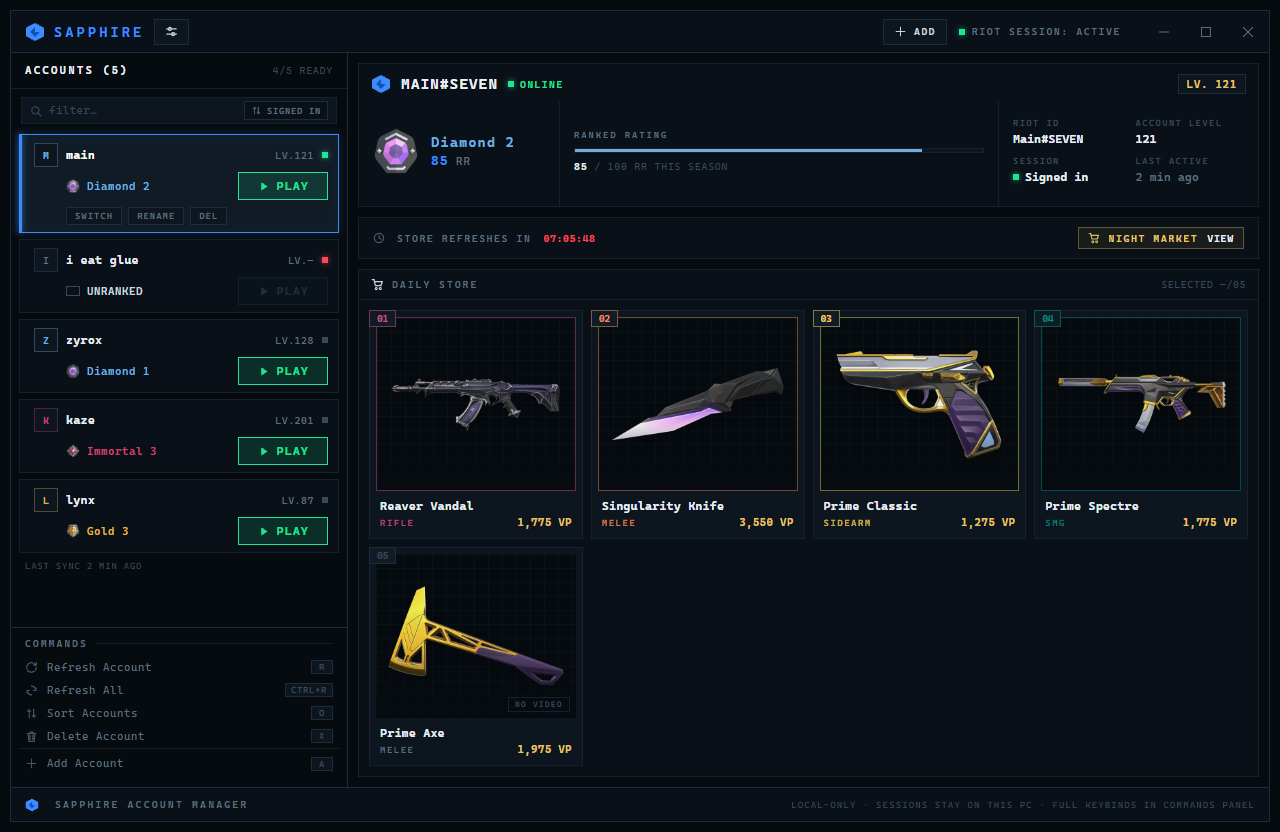
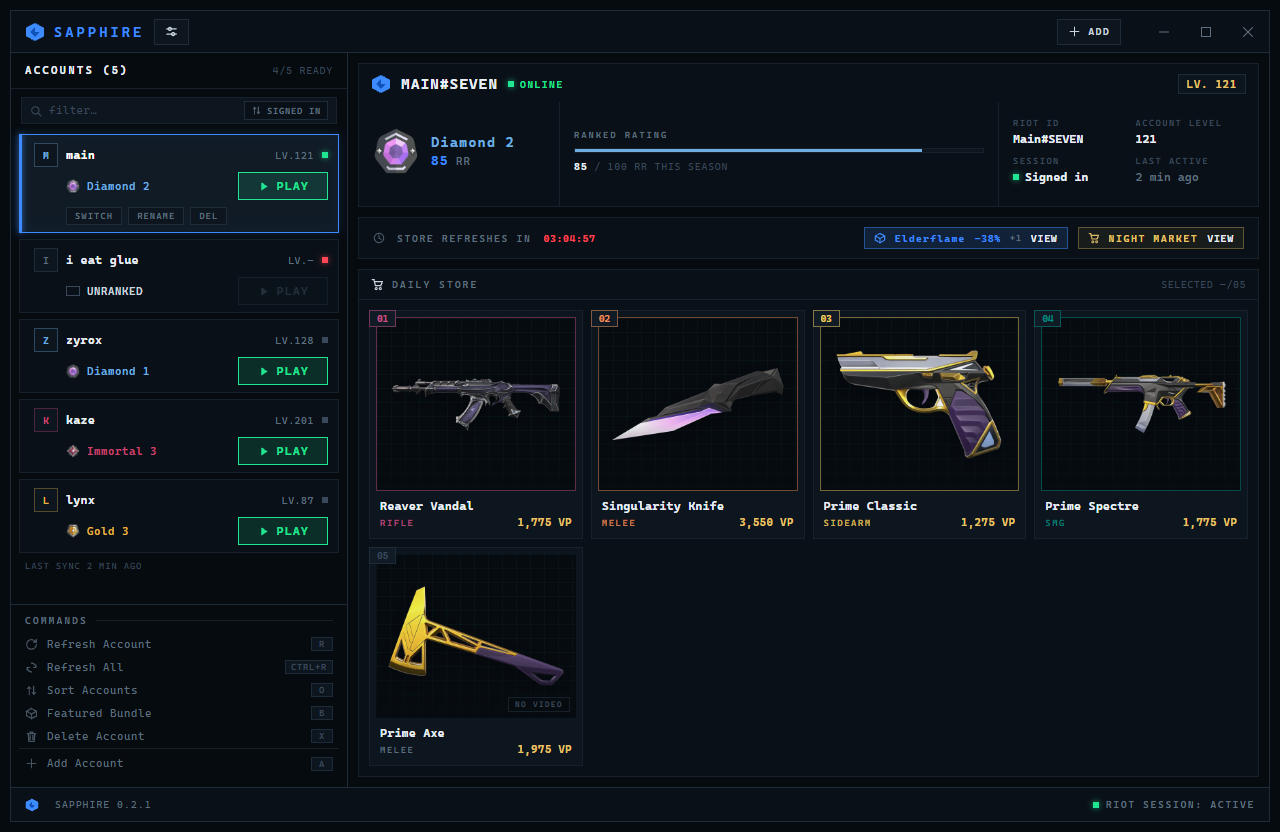
docs: three corrections the README needed
THE PER-UPDATE FIGURE WAS WRONG. "Where the space goes" said every update adds ~900 MB. An in-app
update adds ~300 MB — the moved-aside executable (216 MB) plus the installer's cached copy (96 MB).
The 451 MB and 356 MB shapes come from a full install and from the portable build, both of which
unpack the whole payload; the 2.1 GB was the accumulated total across four updates and those shapes
together. A 3x overstatement of the common case, in a section that opens by claiming measurement.

A USER NAME WAS PUBLISHED IN THREE FIXTURES. `scripts/make-preview.mjs` interpolated
`C:/Users/rifat/...` into the EPERM fixture, `electron/lib/errorKind.test.js` had the same path in an
assertion, and `src/devMock.js` had it as an account name. None is a credential, but a plausible
Windows account name does not belong in a public repo, and the preview harness is what the README's
screenshots are generated from. All three now read `user` / `Rune`, and the fixtures demonstrate
exactly what they did before: that an EPERM path classifies as `fs-error`.

main.png WAS STILL THE OLD UI. Its footer read `SAPPHIRE ACCOUNT MANAGER`, from before the footer
carried the version; the current footer reads `SAPPHIRE 0.2.1`. It also predated the one-door bundle
layout. Regenerated from the default preview state at the app's own 1280x832, with deviceScaleFactor
pinned to 1 — the first attempt came out 1600x1040 because the headless browser inherited this
[…]

diff --git a/electron/lib/housekeeping.js b/electron/lib/housekeeping.js
@@ -147,6 +147,10 @@ async function appRunningFrom(appRoot) {
 // Deliberately NOT applied to the scratch DIRECTORY shapes: those mtimes are set locally by NSIS
 // writing into them, with nothing copied in from elsewhere, so there is no foreign timestamp to
 // inherit. `fallback` covers filesystems that do not report a creation time.
+//
+// This is a no-op for a file written in place — our own downloader's `%TEMP%\sapphire-update\*.exe`
+// has birthtime and mtime a few milliseconds apart — so it changes nothing there and the choice only
+// matters for the copied shape above.
 function appearedAtMs(info) {
   if (!info) return 0;
   return Number(info.birthtimeMs) > 0 ? info.birthtimeMs : info.mtimeMs;

diff --git a/electron/lib/errorKind.test.js b/electron/lib/errorKind.test.js
@@ -8,7 +8,7 @@ describe('classifyError', () => {
   });
 
   it('classifies the real EPERM file-lock failure', () => {
-    const real = "EPERM: operation not permitted, rename 'C:\\Users\\rifat\\AppData\\Roaming\\valorant-account-manager\\accounts\\index.vam.a1b2.tmp' -> 'C:\\Users\\rifat\\AppData\\Roaming\\valorant-account-manager\\accounts\\index.vam'";
+    const real = "EPERM: operation not permitted, rename 'C:\\Users\\user\\AppData\\Roaming\\valorant-account-manager\\accounts\\index.vam.a1b2.tmp' -> 'C:\\Users\\user\\AppData\\Roaming\\valorant-account-manager\\accounts\\index.vam'";
     expect(classifyError(real)).toBe('fs-error');
   });
 

diff --git a/src/devMock.js b/src/devMock.js
@@ -21,7 +21,7 @@ const OFFERS = [
 ];
 
 const RANKS = [
-  { label: 'Rifat', accountName: 'Rifat#1337', level: 187, rank: 'Ascendant 2', rr: 42 },
+  { label: 'Rune', accountName: 'Rune#1337', level: 187, rank: 'Ascendant 2', rr: 42 },
   { label: 'Zyrox', accountName: 'Zyrox#6942', level: 143, rank: 'Diamond 1', rr: 78 },
   { label: 'Kaze', accountName: 'Kaze#2718', level: 221, rank: 'Immortal 3', rr: 156 },
   { label: 'Lynx', accountName: 'Lynx#8080', level: 96, rank: 'Gold 3', rr: 12 },

diff --git a/README.md b/README.md
@@ -96,9 +96,11 @@ The `×` hides the notice for the session only and never skips the version, so t
 
 ### Where the space goes
 
-An installer leaves its own scratch behind: the payload it unpacks, the executable it moves aside when replacing one, and a copy of itself. Measured on one machine after four updates, that came to **2.1 GB** — and every update adds roughly another 900 MB.
+An installer leaves its own scratch behind: the payload it unpacks, the executable it moves aside when replacing one, and a copy of itself. Measured on one machine after four updates, that had accumulated to **2.1 GB**.
 
-Sapphire sweeps it on every launch. Nothing to run and nothing to configure; the first launch after installing this version reclaims whatever earlier updates left, and every launch after that keeps it at zero.
+An in-app update is the common case and adds about **300 MB** — the moved-aside executable (216 MB) plus the installer's own cached copy (96 MB). The larger shapes come from a full install and from the portable build, both of which unpack the whole payload; a machine that only ever updates in place does not see them.
+
+Sapphire sweeps all of it on every launch. Nothing to run and nothing to configure; the first launch after installing this version reclaims whatever earlier updates left, and every launch after that keeps it at zero.
 
 Two delays are deliberate. A directory is left alone for its first ten minutes, because an installer sitting on its "choose a folder" prompt is holding its scratch open and looks exactly like a leftover. A downloaded installer is left for an hour, because a failed install is retried from that file. Both are then collected on a later launch.
 
